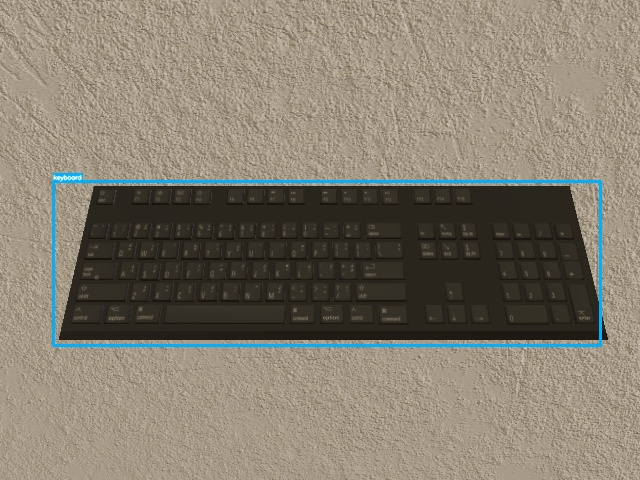
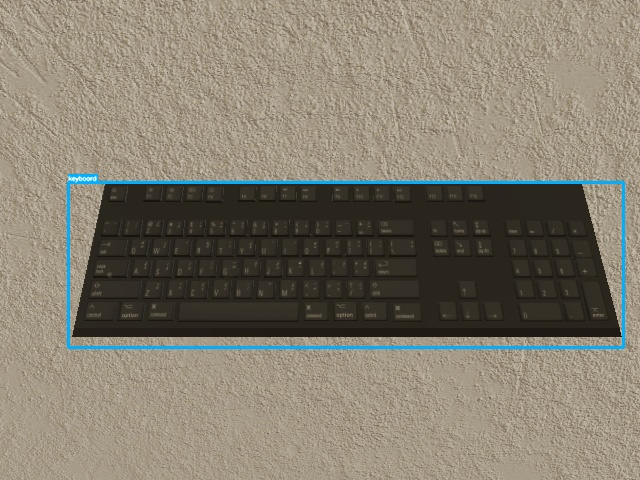
Add label and improve

diff --git a/office/controllers/jetbot_controller/jetbot_controller.py b/office/controllers/jetbot_controller/jetbot_controller.py
@@ -12,7 +12,7 @@
 # See the License for the specific language governing permissions and
 # limitations under the License.
 
-from controller import Robot, Camera, Node
+from controller import Robot, Display, Camera, Node
 
 from opendr.engine.data import Image
 from opendr.perception.object_detection_2d import NanodetLearner
@@ -60,11 +60,11 @@ print(camera.getWidth(), camera.getHeight(), learner.classes)
 
 # Get the display device.
 display = robot.getDevice('display')
-display.attachCamera(camera)
-display.setColor(0xFF0000)
+display.setFont('Lucida Console', 15, True)
+#display.setColor(0xFF0000)
 
 current_bbox = None
-
+print('start main loop')
 while robot.step(timestep) != -1:
     image = camera.getImage()
 
@@ -84,17 +84,21 @@ while robot.step(timestep) != -1:
             bb = boxes[0].coco()
             current_bbox = bb['bbox']
             # Show detected blob in the display: draw the circle and centroid.
+            ir = display.imageNew(image, Display.BGRA, camera.getWidth(), camera.getHeight())
+            display.imagePaste(ir, 0, 0, False)
             display.setAlpha(1.0)
             display.setColor(0x00FFFF)
             display.drawRectangle(current_bbox[0], current_bbox[1], current_bbox[2], current_bbox[3])
+            display.drawText(learner.classes[bb['category_id']], current_bbox[0], current_bbox[1] - 20)
             display.setColor(0xFF0000)
 
             sendDeviceImage(robot, display)
+            display.imageDelete(ir)
 
             print('bounding box:', bb['bbox'])
             print('class:', learner.classes[bb['category_id']], 'confidence:', boxes[0].confidence)
-            out = draw_bounding_boxes(img.opencv(), boxes, class_names=learner.classes)
-            cv2.imwrite('test.jpg', out)
+            #out = draw_bounding_boxes(img.opencv(), boxes, class_names=learner.classes)
+            #cv2.imwrite('test.jpg', out)
 
 
 # Cleanup code.
